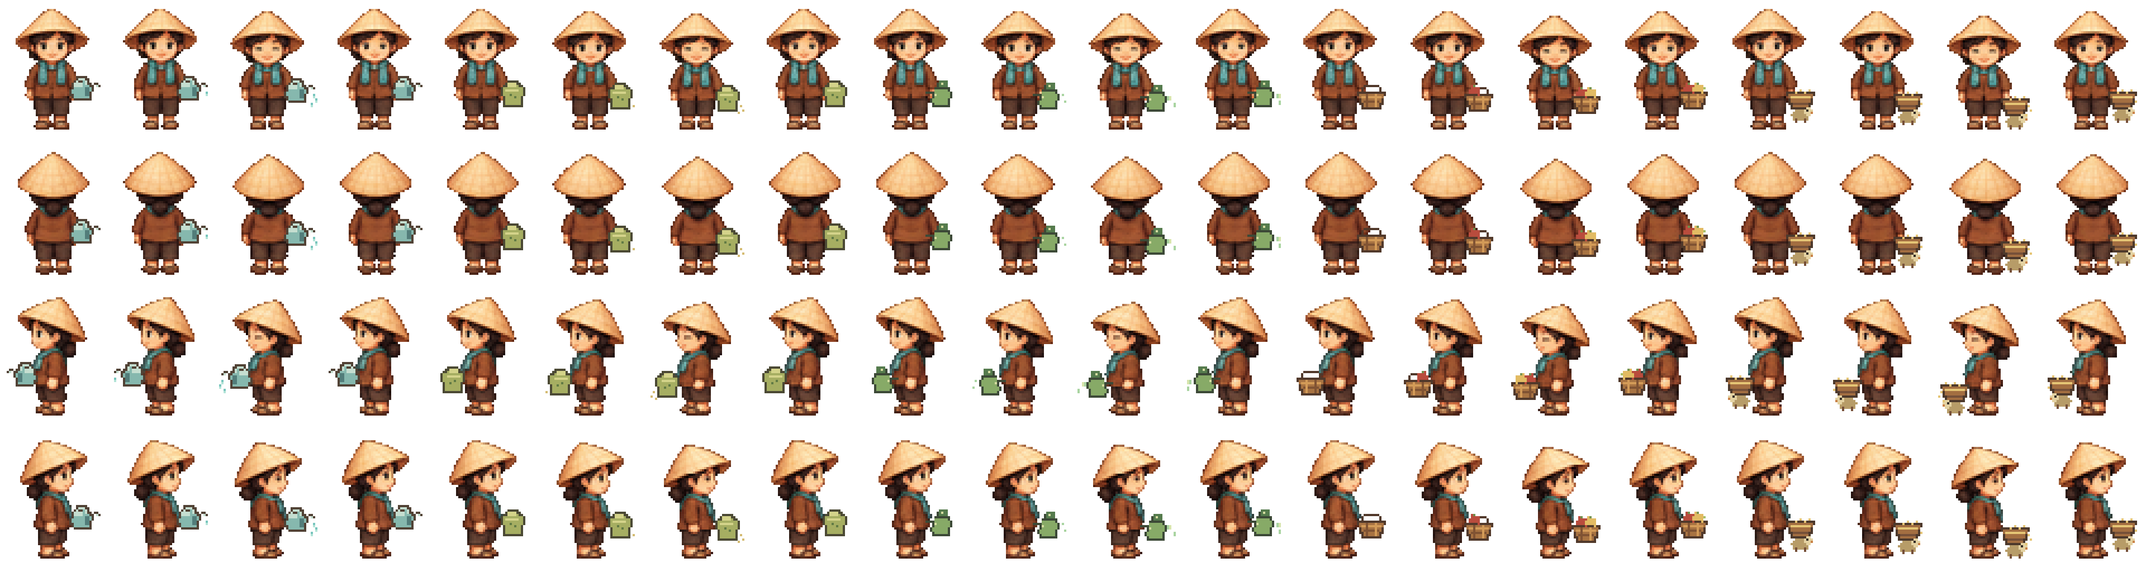
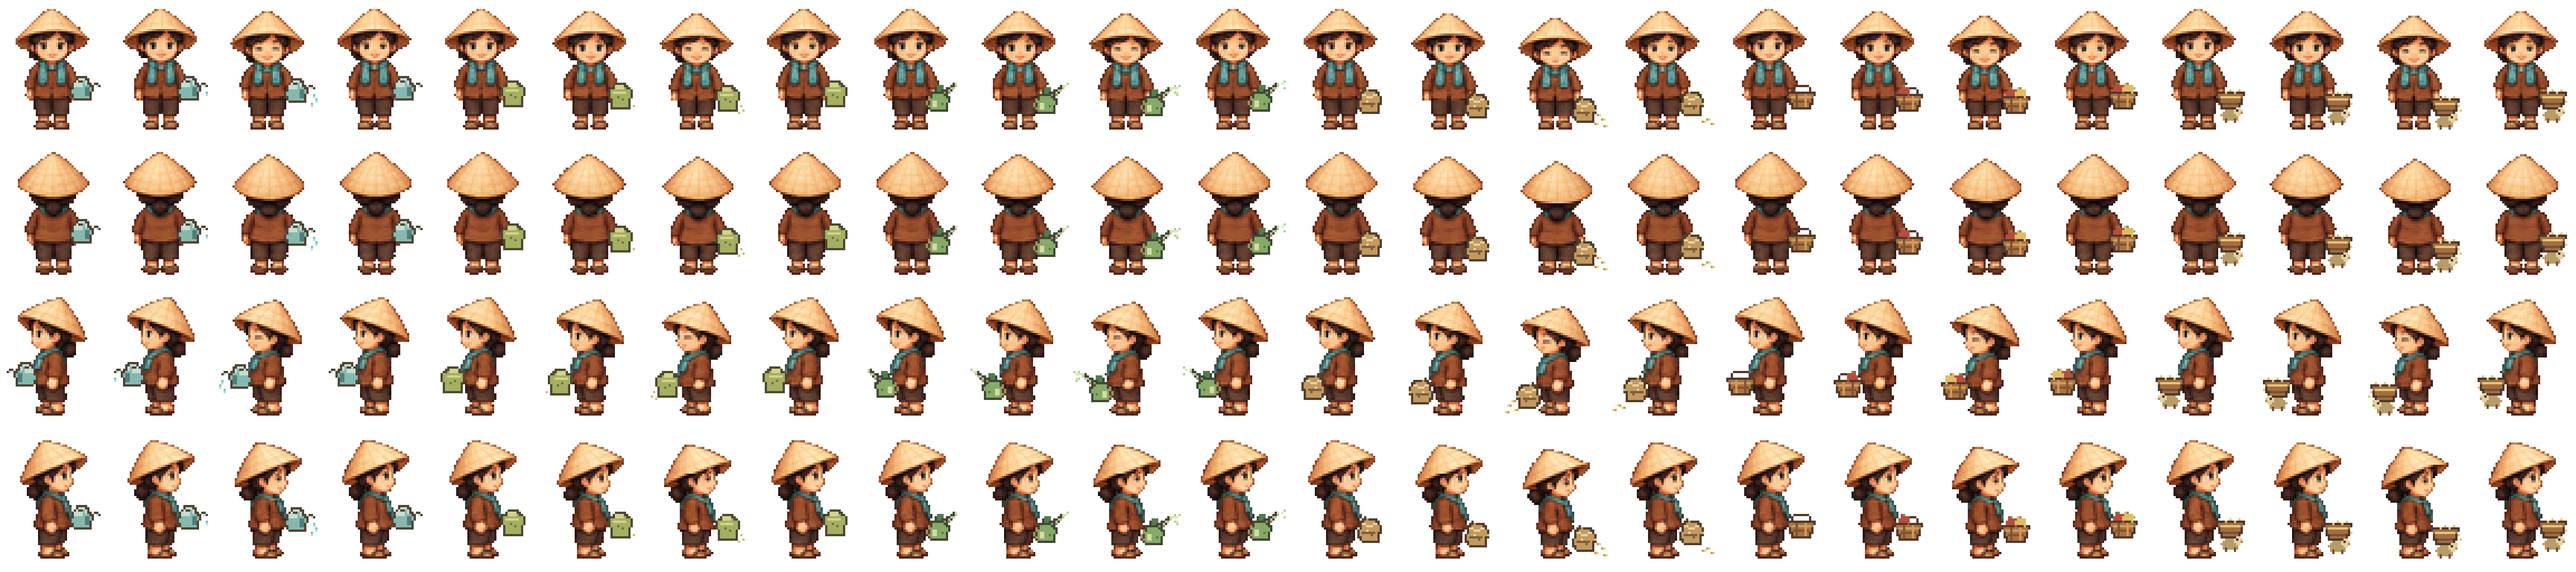
add them hanh dong cho giao hạt và xịt thuôc

diff --git a/scripts/generate-farmer-action-atlases.py b/scripts/generate-farmer-action-atlases.py
@@ -7,7 +7,7 @@ ROOT = Path(__file__).resolve().parents[1]
 CELL_W, CELL_H = 48, 64
 SCALE = 4
 FRAMES = 4
-ACTIONS = ("water", "fertilize", "spray", "harvest", "feed")
+ACTIONS = ("water", "fertilize", "spray", "plant", "harvest", "feed")
 DIRECTIONS = 4
 ATLAS_COLUMNS = len(ACTIONS) * FRAMES
 
@@ -39,6 +39,7 @@ def action_body(base, action, frame):
         "water": (0, 0, 1, 0),
         "fertilize": (0, 1, 2, 0),
         "spray": (0, 1, 2, 0),
+        "plant": (0, 2, 4, 1),
         "harvest": (0, 1, 3, 1),
         "feed": (0, 1, 3, 1),
     }[action][frame]
@@ -90,24 +91,35 @@ def draw_fertilizer(draw, x, y, frame):
 
 
 def draw_spray(draw, x, y, frame):
-    ink, shade, bottle, light = "#3c4937", "#557b4d", "#87aa67", "#d4dca0"
-    draw.polygon([(x+4,y+3),(x+10,y+3),(x+11,y+5),(x+10,y+11),
-                  (x+3,y+11),(x+2,y+9),(x+3,y+5)], fill=ink)
-    draw.polygon([(x+4,y+4),(x+9,y+4),(x+10,y+5),(x+9,y+10),
-                  (x+4,y+10),(x+3,y+9),(x+4,y+5)], fill=bottle)
-    draw.rectangle((x+5,y+1,x+8,y+3), fill=ink)
-    draw.rectangle((x+6,y,x+9,y+2), fill=shade)
-    draw.point((x+7,y+1), fill=light)
-    draw.line([(x+3,y+6),(x+1,y+5),(x,y+5)], fill=ink, width=1)
-    draw.point((x+4,y+6), fill=light)
+    """Draw a hand pump, grip, wand, and a short animated mist burst."""
+    ink, shade, tank, light = "#3c4937", "#557b4d", "#87aa67", "#d4dca0"
+    # Rounded pressure tank with a clear shoulder, base, liquid window and strap.
+    draw.polygon([(x+3,y+5),(x+9,y+5),(x+11,y+7),(x+10,y+13),
+                  (x+3,y+13),(x+1,y+11),(x+2,y+7)], fill=ink)
+    draw.polygon([(x+4,y+6),(x+8,y+6),(x+10,y+8),(x+9,y+12),
+                  (x+4,y+12),(x+3,y+11),(x+3,y+8)], fill=tank)
+    draw.rectangle((x+4,y+9,x+5,y+11), fill=light)
+    draw.point((x+8,y+10), fill=shade)
+    draw.line([(x+2,y+7),(x+1,y+10),(x+3,y+12)], fill="#b18b54", width=1)
+    # Neck, pump handle, trigger grip and a narrow metal spray lance.
+    draw.rectangle((x+5,y+3,x+8,y+5), fill=ink)
+    draw.rectangle((x+6,y+2,x+8,y+4), fill=shade)
+    draw.line([(x+8,y+4),(x+11,y+3),(x+12,y+4)], fill=ink, width=1)
+    draw.line([(x+9,y+5),(x+11,y+5)], fill="#a88a5e", width=1)
+    draw.line([(x+10,y+4),(x+14,y+1)], fill=ink, width=2)
+    draw.line([(x+11,y+4),(x+14,y+2)], fill="#c5c2a0", width=1)
+    draw.point((x+14,y+1), fill=light)
     if frame in (1, 2, 3):
-        count = 2 if frame == 1 else 4
-        for index in range(count):
-            dx = 12 + (index % 2) * 2 + ((frame + index) % 2)
-            dy = 4 + (index * 3 + frame) % 7
-            draw.point((x+dx,y+dy), fill="#a9d4a1")
-            if frame >= 2 and index % 2 == 0:
-                draw.point((x+dx+1,y+dy), fill="#d8e5ad")
+        bursts = {
+            1: ((15,1),(16,0)),
+            2: ((15,1),(16,0),(16,3),(17,1),(18,0),(17,4)),
+            3: ((16,1),(17,0),(17,3)),
+        }[frame]
+        for index, (dx, dy) in enumerate(bursts):
+            color = "#d9e9b1" if index % 3 == 0 else "#a9d4a1"
+            draw.point((x+dx,y+dy), fill=color)
+            if frame == 2 and index % 2 == 0:
+                draw.point((x+dx+1,y+dy), fill="#d9e9b1")
 
 
 def draw_harvest(draw, x, y, frame):
@@ -127,6 +139,29 @@ def draw_harvest(draw, x, y, frame):
         draw.point((x+9,y), fill="#789451")
     if frame == 3:
         draw.point((x+12,y+2), fill="#a8bf69")
+
+
+def draw_seed(draw, x, y, frame):
+    """Draw a small seed pouch and seeds dropping toward the ground."""
+    ink, shade, cloth, light = "#513e2c", "#805d3c", "#c19a60", "#ead19a"
+    draw.polygon([(x+3,y+4),(x+5,y+2),(x+10,y+3),(x+12,y+6),
+                  (x+11,y+13),(x+4,y+13),(x+2,y+11)], fill=ink)
+    draw.polygon([(x+4,y+5),(x+6,y+3),(x+9,y+4),(x+11,y+6),
+                  (x+10,y+12),(x+4,y+12),(x+3,y+10)], fill=cloth)
+    draw.line([(x+4,y+5),(x+7,y+6),(x+10,y+5)], fill=light, width=1)
+    draw.line([(x+4,y+9),(x+9,y+9)], fill=shade, width=1)
+    draw.point((x+6,y+8), fill=light)
+    draw.point((x+8,y+10), fill=shade)
+    if frame >= 1:
+        draw.point((x+12,y+8), fill="#d9bd74")
+    if frame == 2:
+        for dx, dy in ((13,10),(15,12),(12,14),(16,15)):
+            draw.point((x+dx,y+dy), fill="#c99d4b")
+            draw.point((x+dx+1,y+dy), fill="#ead19a")
+    elif frame == 3:
+        for dx, dy in ((14,15),(16,17),(12,16)):
+            draw.point((x+dx,y+dy), fill="#c99d4b")
+            draw.point((x+dx+1,y+dy), fill="#ead19a")
 
 
 def draw_feed(draw, x, y, frame):
@@ -151,13 +186,15 @@ def draw_feed(draw, x, y, frame):
 
 
 DRAW_TOOL = {"water": draw_water, "fertilize": draw_fertilizer, "spray": draw_spray,
+             "plant": draw_seed,
              "harvest": draw_harvest, "feed": draw_feed}
 
 
 def tool_origin(direction, action, frame):
-    x = 30
+    x = 29 if action in ("spray", "plant") else 30
     y = {"water": (34,34,35,34), "fertilize": (36,37,38,36),
          "spray": (36,37,38,36),
+         "plant": (37,39,41,38),
          "harvest": (37,38,39,37), "feed": (38,39,41,38)}[action][frame]
     return x, y
 
